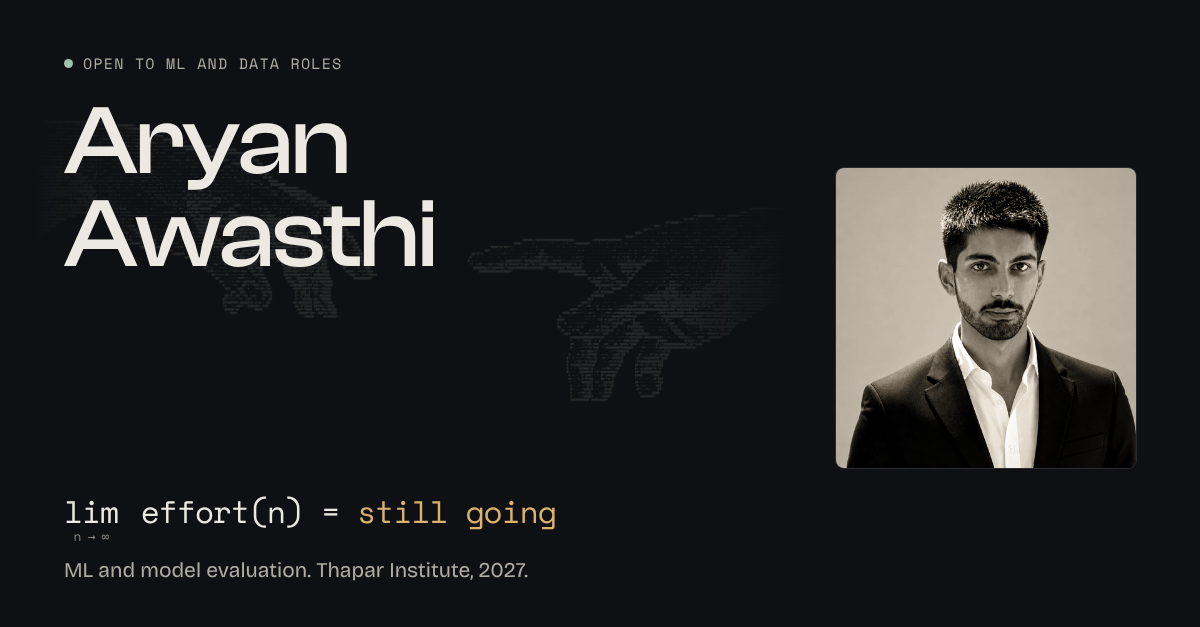
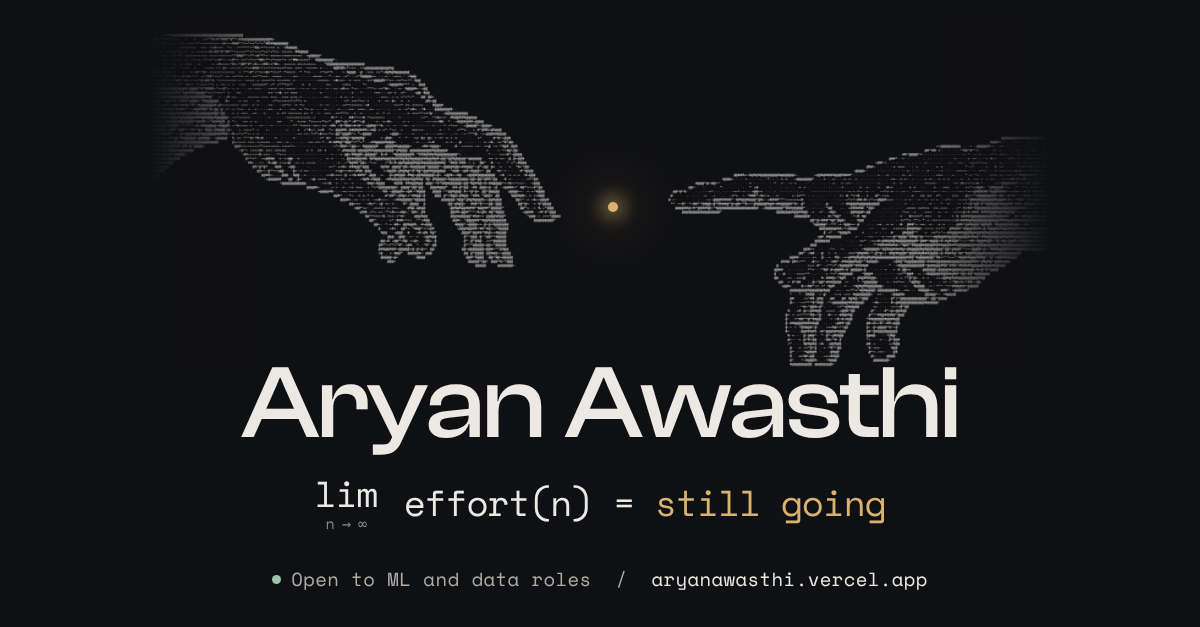
Link preview: the site's hero as the card
- The ASCII hands large and crisp with the gold spark, the name on one line,
  the lim tagline, and one footer line (open to roles, the address).
- Drops the portrait: LinkedIn already shows the profile photo beside the post.
- og:image gets ?v=2 so LinkedIn and others fetch the new card; alt text updated.

diff --git a/src/og.html b/src/og.html
@@ -5,28 +5,27 @@
 <style>
 @font-face { font-family: "Clash Display"; src: url("../fonts/ClashDisplay-500.woff2") format("woff2"); font-weight: 500; }
 html, body { margin: 0; }
-body { width: 1200px; height: 627px; box-sizing: border-box; padding: 52px 64px 44px; background: #0F1013; color: #ECE9E3;
-  display: grid; grid-template-columns: 1fr 300px; grid-template-rows: auto 1fr auto; column-gap: 56px; overflow: hidden;
+body { width: 1200px; height: 627px; position: relative; overflow: hidden; background: #0F1013; color: #ECE9E3; text-align: center;
   font-family: "Bricolage Grotesque", sans-serif; }
-.tag { grid-column: 1; margin: 0; font: 15px "Space Mono", monospace; letter-spacing: .08em; text-transform: uppercase; color: #B0ACA4; display: flex; align-items: center; gap: 10px; }
-.tag i { width: 9px; height: 9px; border-radius: 50%; background: #9DC4AF; }
-.name { grid-column: 1; margin: 22px 0 0; font: 500 98px/0.95 "Clash Display", sans-serif; letter-spacing: -.025em; word-spacing: .06em; }
-.lead { grid-column: 1; align-self: end; margin: 0; font: 31px "Space Mono", monospace; letter-spacing: -.03em; color: #ECE9E3; }
+/* the hero, as on the site: the hands, then the name, then the line */
+.art { position: absolute; left: 150px; top: 6px; width: 900px; height: 367px; overflow: hidden; background: #0F1013;
+  -webkit-mask-image: linear-gradient(to right, transparent 0, #000 14%, #000 86%, transparent 100%); }
+.art img { position: absolute; left: 0; top: -56px; width: 900px; mix-blend-mode: lighten; filter: contrast(1.08) brightness(1.06); }
+.spark { position: absolute; left: 613px; top: 207px; width: 10px; height: 10px; margin: -5px 0 0 -5px; border-radius: 50%; background: #D9B26F;
+  box-shadow: 0 0 18px 6px rgba(217, 178, 111, .55), 0 0 60px 18px rgba(217, 178, 111, .18); }
+.name { position: absolute; left: 0; right: 0; top: 352px; margin: 0; font: 500 104px/1 "Clash Display", sans-serif; letter-spacing: -.025em; word-spacing: .06em; }
+.lead { position: absolute; left: 0; right: 0; top: 476px; margin: 0; font: 36px "Space Mono", monospace; letter-spacing: -.03em; }
 .lead code { font: inherit; }
-.lim { display: inline-flex; flex-direction: column; align-items: center; line-height: 1; margin-right: .15em; }
+.lim { display: inline-flex; flex-direction: column; align-items: center; line-height: 1; margin-right: .15em; vertical-align: top; }
 .lim sub { font-size: .42em; color: #8A867E; margin-top: .25em; }
 .lead em { font-style: normal; color: #D9B26F; }
-.sub { grid-column: 1; margin: 14px 0 0; font-size: 21px; color: #B0ACA4; }
-.photo { grid-column: 2; grid-row: 1 / 4; position: relative; align-self: center; width: 300px; height: 300px; border-radius: 8px; overflow: hidden; box-shadow: 0 0 0 1px rgba(236,233,227,.12); }
-.photo img { width: 100%; height: 100%; object-fit: cover; filter: grayscale(1) contrast(1.06); }
-.photo::after { content: ""; position: absolute; inset: 0; background: #D9B26F; mix-blend-mode: color; opacity: .22; }
-.hands { position: absolute; left: 30px; bottom: 150px; width: 760px; opacity: .22; mix-blend-mode: lighten;
-  -webkit-mask-image: linear-gradient(to right, transparent, #000 15%, #000 85%, transparent); }
+.foot { position: absolute; left: 0; right: 0; bottom: 34px; margin: 0; font: 19px "Space Mono", monospace; color: #B0ACA4; letter-spacing: .02em; }
+.foot i { display: inline-block; width: 9px; height: 9px; border-radius: 50%; background: #9DC4AF; margin-right: 10px; vertical-align: 2px; }
+.foot b { font-weight: 400; color: #ECE9E3; }
 </style></head><body>
-<img class="hands" src="../adam.jpg" alt="">
-<p class="tag"><i></i>Open to ML and data roles</p>
-<div><p class="name">Aryan<br>Awasthi</p></div>
-<div style="grid-column:1;align-self:end"><p class="lead"><span class="lim">lim<sub>n&nbsp;&rarr;&nbsp;&infin;</sub></span><code> effort(n) = <em>still going</em></code></p>
-<p class="sub">ML and model evaluation. Thapar Institute, 2027.</p></div>
-<div class="photo"><img src="../portrait-480.jpg" alt=""></div>
+<div class="art"><img src="../adam.jpg" alt=""></div>
+<span class="spark"></span>
+<p class="name">Aryan Awasthi</p>
+<p class="lead"><span class="lim">lim<sub>n&nbsp;&rarr;&nbsp;&infin;</sub></span><code> effort(n) = <em>still going</em></code></p>
+<p class="foot"><i></i>Open to ML and data roles &nbsp;/&nbsp; <b>aryanawasthi.vercel.app</b></p>
 </body></html>

diff --git a/index.html b/index.html
@@ -14,10 +14,10 @@
 <meta property="og:title" content="Aryan Awasthi, machine learning and model evaluation">
 <meta property="og:description" content="lim n to infinity, effort(n) = still going. I try every reasonable answer, then prove which one is better. AI Research Intern on model evaluation at Appy Pie (Pixazo). Open to ML, data and analytics roles.">
 <meta property="og:url" content="https://aryanawasthi.vercel.app/">
-<meta property="og:image" content="https://aryanawasthi.vercel.app/og.png">
+<meta property="og:image" content="https://aryanawasthi.vercel.app/og.png?v=2">
 <meta property="og:image:width" content="1200">
 <meta property="og:image:height" content="627">
-<meta property="og:image:alt" content="The hands from The Creation of Adam drawn in ASCII on matte black, with the name Aryan Awasthi and the line: I try every reasonable answer, then prove which one is better.">
+<meta property="og:image:alt" content="The hands from The Creation of Adam drawn in ASCII on matte black with a gold spark between the fingertips, above the name Aryan Awasthi and the line lim effort(n) = still going. Open to ML and data roles, aryanawasthi.vercel.app.">
 <meta name="twitter:card" content="summary_large_image">
 <script type="application/ld+json">
 {

diff --git a/src/index.template.html b/src/index.template.html
@@ -14,10 +14,10 @@
 <meta property="og:title" content="Aryan Awasthi, machine learning and model evaluation">
 <meta property="og:description" content="lim n to infinity, effort(n) = still going. I try every reasonable answer, then prove which one is better. AI Research Intern on model evaluation at Appy Pie (Pixazo). Open to ML, data and analytics roles.">
 <meta property="og:url" content="{{SITE}}">
-<meta property="og:image" content="{{SITE}}og.png">
+<meta property="og:image" content="{{SITE}}og.png?v=2">
 <meta property="og:image:width" content="1200">
 <meta property="og:image:height" content="627">
-<meta property="og:image:alt" content="The hands from The Creation of Adam drawn in ASCII on matte black, with the name Aryan Awasthi and the line: I try every reasonable answer, then prove which one is better.">
+<meta property="og:image:alt" content="The hands from The Creation of Adam drawn in ASCII on matte black with a gold spark between the fingertips, above the name Aryan Awasthi and the line lim effort(n) = still going. Open to ML and data roles, aryanawasthi.vercel.app.">
 <meta name="twitter:card" content="summary_large_image">
 <script type="application/ld+json">
 {

diff --git a/src/og.py b/src/og.py
@@ -13,30 +13,29 @@ page = """<!doctype html>
 <style>
 @font-face { font-family: "Clash Display"; src: url("../fonts/ClashDisplay-500.woff2") format("woff2"); font-weight: 500; }
 html, body { margin: 0; }
-body { width: 1200px; height: 627px; box-sizing: border-box; padding: 52px 64px 44px; background: #0F1013; color: #ECE9E3;
-  display: grid; grid-template-columns: 1fr 300px; grid-template-rows: auto 1fr auto; column-gap: 56px; overflow: hidden;
+body { width: 1200px; height: 627px; position: relative; overflow: hidden; background: #0F1013; color: #ECE9E3; text-align: center;
   font-family: "Bricolage Grotesque", sans-serif; }
-.tag { grid-column: 1; margin: 0; font: 15px "Space Mono", monospace; letter-spacing: .08em; text-transform: uppercase; color: #B0ACA4; display: flex; align-items: center; gap: 10px; }
-.tag i { width: 9px; height: 9px; border-radius: 50%; background: #9DC4AF; }
-.name { grid-column: 1; margin: 22px 0 0; font: 500 98px/0.95 "Clash Display", sans-serif; letter-spacing: -.025em; word-spacing: .06em; }
-.lead { grid-column: 1; align-self: end; margin: 0; font: 31px "Space Mono", monospace; letter-spacing: -.03em; color: #ECE9E3; }
+/* the hero, as on the site: the hands, then the name, then the line */
+.art { position: absolute; left: 150px; top: 6px; width: 900px; height: 367px; overflow: hidden; background: #0F1013;
+  -webkit-mask-image: linear-gradient(to right, transparent 0, #000 14%, #000 86%, transparent 100%); }
+.art img { position: absolute; left: 0; top: -56px; width: 900px; mix-blend-mode: lighten; filter: contrast(1.08) brightness(1.06); }
+.spark { position: absolute; left: 613px; top: 207px; width: 10px; height: 10px; margin: -5px 0 0 -5px; border-radius: 50%; background: #D9B26F;
+  box-shadow: 0 0 18px 6px rgba(217, 178, 111, .55), 0 0 60px 18px rgba(217, 178, 111, .18); }
+.name { position: absolute; left: 0; right: 0; top: 352px; margin: 0; font: 500 104px/1 "Clash Display", sans-serif; letter-spacing: -.025em; word-spacing: .06em; }
+.lead { position: absolute; left: 0; right: 0; top: 476px; margin: 0; font: 36px "Space Mono", monospace; letter-spacing: -.03em; }
 .lead code { font: inherit; }
-.lim { display: inline-flex; flex-direction: column; align-items: center; line-height: 1; margin-right: .15em; }
+.lim { display: inline-flex; flex-direction: column; align-items: center; line-height: 1; margin-right: .15em; vertical-align: top; }
 .lim sub { font-size: .42em; color: #8A867E; margin-top: .25em; }
 .lead em { font-style: normal; color: #D9B26F; }
-.sub { grid-column: 1; margin: 14px 0 0; font-size: 21px; color: #B0ACA4; }
-.photo { grid-column: 2; grid-row: 1 / 4; position: relative; align-self: center; width: 300px; height: 300px; border-radius: 8px; overflow: hidden; box-shadow: 0 0 0 1px rgba(236,233,227,.12); }
-.photo img { width: 100%; height: 100%; object-fit: cover; filter: grayscale(1) contrast(1.06); }
-.photo::after { content: ""; position: absolute; inset: 0; background: #D9B26F; mix-blend-mode: color; opacity: .22; }
-.hands { position: absolute; left: 30px; bottom: 150px; width: 760px; opacity: .22; mix-blend-mode: lighten;
-  -webkit-mask-image: linear-gradient(to right, transparent, #000 15%, #000 85%, transparent); }
+.foot { position: absolute; left: 0; right: 0; bottom: 34px; margin: 0; font: 19px "Space Mono", monospace; color: #B0ACA4; letter-spacing: .02em; }
+.foot i { display: inline-block; width: 9px; height: 9px; border-radius: 50%; background: #9DC4AF; margin-right: 10px; vertical-align: 2px; }
+.foot b { font-weight: 400; color: #ECE9E3; }
 </style></head><body>
-<img class="hands" src="../adam.jpg" alt="">
-<p class="tag"><i></i>Open to ML and data roles</p>
-<div><p class="name">Aryan<br>Awasthi</p></div>
-<div style="grid-column:1;align-self:end"><p class="lead"><span class="lim">lim<sub>n&nbsp;&rarr;&nbsp;&infin;</sub></span><code> effort(n) = <em>still going</em></code></p>
-<p class="sub">ML and model evaluation. Thapar Institute, 2027.</p></div>
-<div class="photo"><img src="../portrait-480.jpg" alt=""></div>
+<div class="art"><img src="../adam.jpg" alt=""></div>
+<span class="spark"></span>
+<p class="name">Aryan Awasthi</p>
+<p class="lead"><span class="lim">lim<sub>n&nbsp;&rarr;&nbsp;&infin;</sub></span><code> effort(n) = <em>still going</em></code></p>
+<p class="foot"><i></i>Open to ML and data roles &nbsp;/&nbsp; <b>aryanawasthi.vercel.app</b></p>
 </body></html>
 """
 (ROOT / "src" / "og.html").write_text(page, encoding="utf-8")
